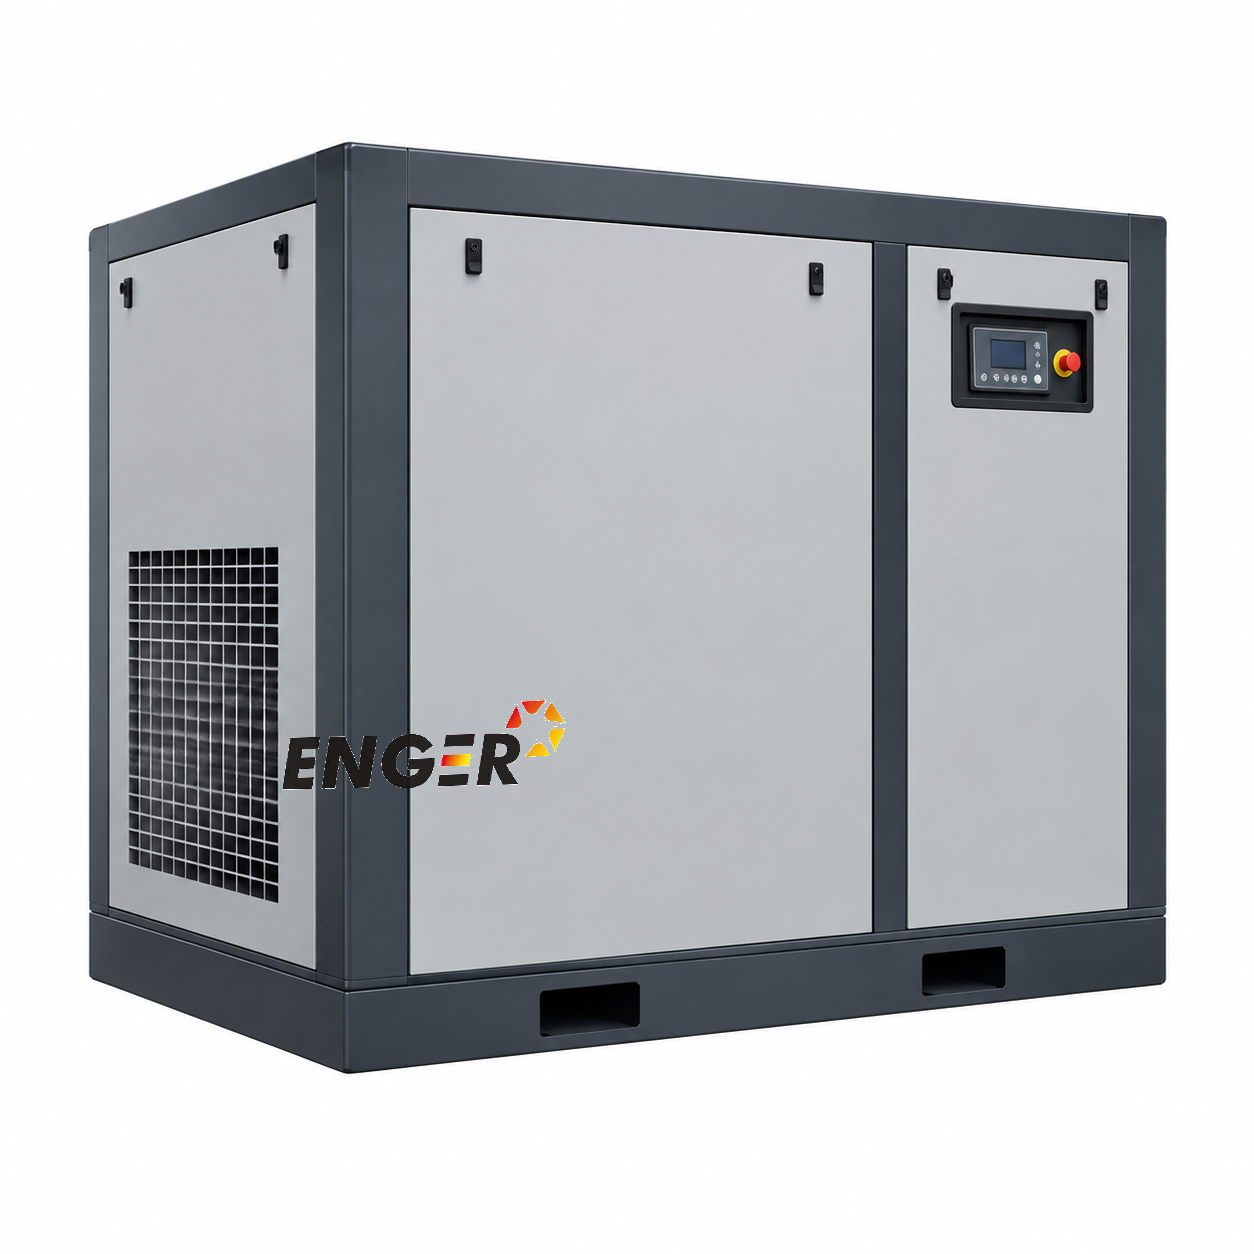
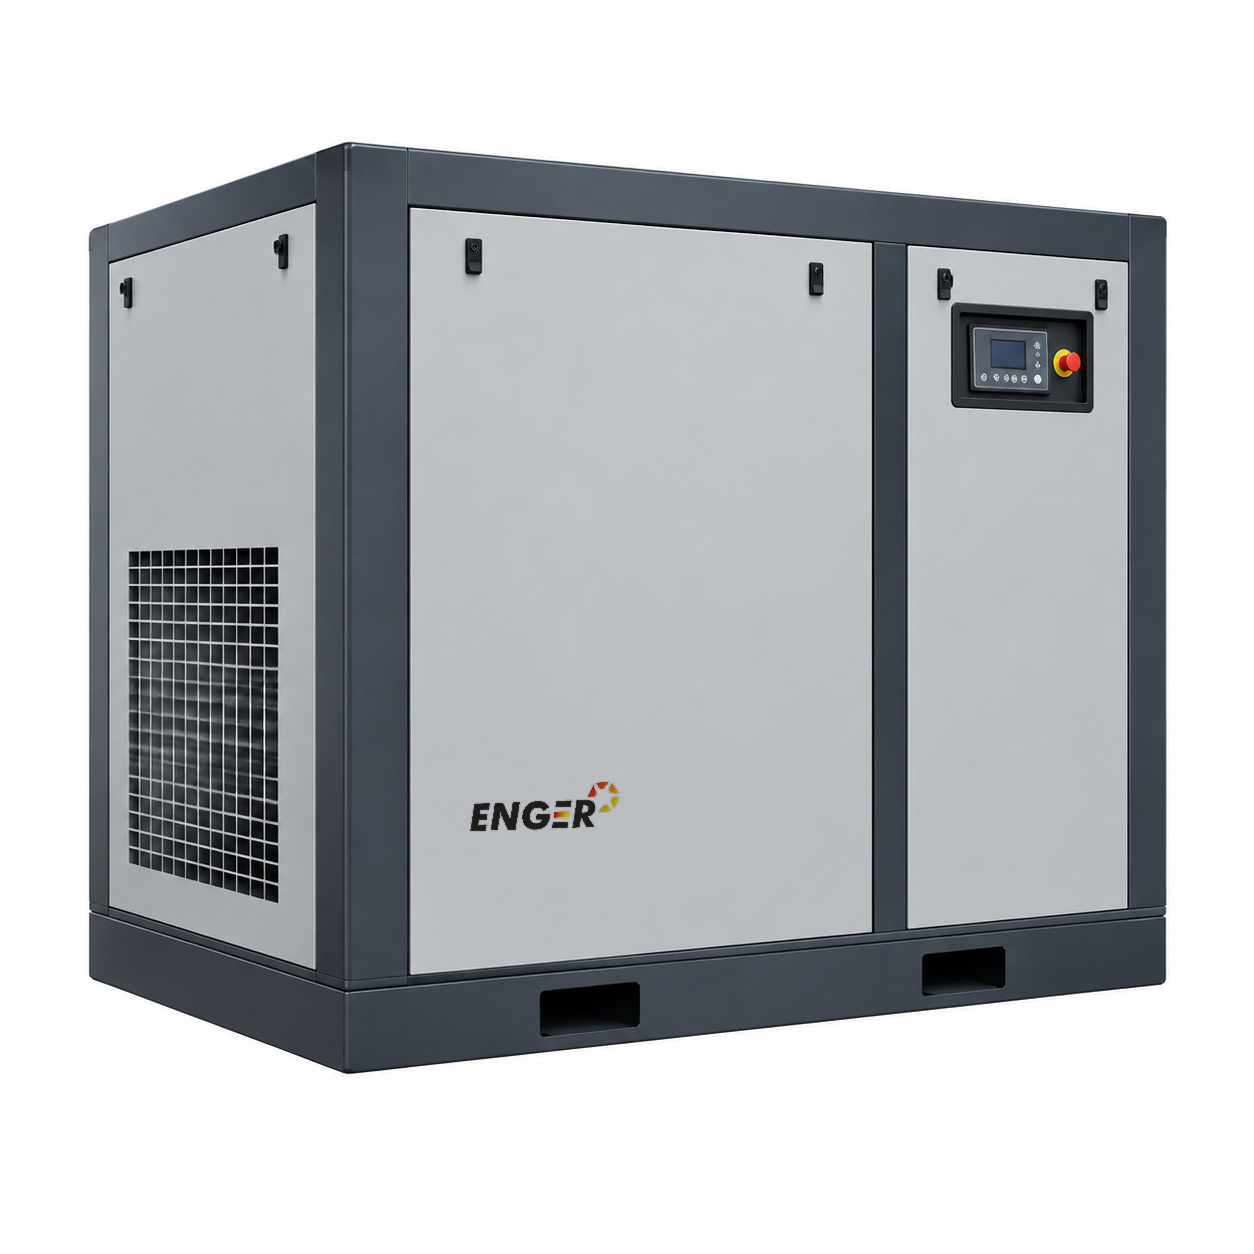
Картинки Enger: графит на всех четырёх, центробежный по настоящим снимкам
Владелец забраковал прошлый заход: логотип «криво прилип», центробежный не
похож на настоящую машину, и вся серия должна читаться в графите, как шесть
уже готовых карточек.

Палитра вынесена в PALITRA и подмешивается в каждый запрос: графит RAL 7024
на раме и каркасе, светло-серый RAL 7035 на панелях, прямой запрет бежевого
и кремового. Спиральный из-за этого перегенерён - был кремовый, выбивался.

Центробежный переописан по снимкам поставок: улитка с фланцевым кольцом,
боковой подвод и верхний отвод крупного сечения, корпус редуктора,
промежуточный охладитель вдоль рамы. Прошлый выглядел насосом на раме.

Логотип больше не кладётся простой альфой - от этого и была наклейка:
краска светилась ровно, пока панель под ней уходила в тень. Тёмный теперь
идёт умножением, светлый осветлением, поэтому подхватывает освещение
поверхности. Углы панелей сняты по зум-сетке с шагом 32 px; кромки полосы
на раме центробежного - замером яркости по колонкам, на глаз промахивался
ниже кромки и логотип свешивался на белый фон.

Claude-Session: https://claude.ai/code/session_01K9bfn6cMfLq8ZJHD6LoULn

Changed region(s): [[0.2177, 0.5598, 0.4976, 0.6842]]

diff --git a/seo-texts/brand-sites/logotip_na_panel.py b/seo-texts/brand-sites/logotip_na_panel.py
@@ -7,7 +7,7 @@
 import os
 import sys
 
-from PIL import Image
+from PIL import Image, ImageChops
 
 # Углы панели сняты по сетке setka.png, которая рисовалась в опорной рамке
 # 1024x1024. Модель отдаёт кадры другого размера (видели 1254), поэтому углы
@@ -17,10 +17,16 @@ OPORA = 1024
 # «светлый» - там, где поверхность тёмная и чёрные буквы на ней пропадают:
 # на передвижном это графитовый капот, на центробежном - рама-основание.
 PANELI = {
-    'nizkogo-davleniya': (((230, 575), (462, 571), (462, 641), (230, 646)), 'тёмный'),
-    'spiralnye':         (((714, 688), (876, 694), (876, 757), (714, 751)), 'тёмный'),
-    'peredvizhnye':      (((490, 355), (611, 366), (611, 408), (490, 398)), 'светлый'),
-    'centrobezhnye':     (((106, 723), (294, 745), (294, 802), (106, 780)), 'светлый'),
+    # Углы сняты по зум-сетке с шагом 32 px, а не на глаз: прошлый заход давал
+    # наклейку именно потому, что логотип лежал плоско, пока панель уходила вбок.
+    'nizkogo-davleniya': (((384, 642), (506, 638), (506, 675), (384, 679)), 'тёмный'),
+    'spiralnye':         (((588, 696), (702, 694), (702, 728), (588, 730)), 'тёмный'),
+    'peredvizhnye':      (((498, 351), (612, 357), (612, 391), (498, 385)), 'светлый'),
+    # На центробежном ровных панелей нет: кладём на стенку рамы-основания.
+    # Кромки полосы сняты замером яркости по колонкам, а не на глаз: первый
+    # заход промахнулся ниже кромки и логотип свесился на белый фон.
+    # Полоса: верх y=900+0,2*(x-180), низ y=948+0,233*(x-180).
+    'centrobezhnye':     (((176, 747), (261, 766), (261, 792), (176, 773)), 'светлый'),
 }
 PLOTNOST = 0.94        # чуть просвечивает, чтобы не выглядело наклейкой
 
@@ -53,16 +59,30 @@ def _koef(uglami, w, h):
     return [M[i][n] for i in range(n)]
 
 
-def polozhit(kadr, logotip, uglami, plotnost=PLOTNOST):
-    holst = Image.new('RGBA', kadr.size, (0, 0, 0, 0))
+def polozhit(kadr, logotip, uglami, plotnost=PLOTNOST, rezhim='умножение'):
+    """Кладём логотип НЕ простой альфой.
+
+    Простая альфа даёт наклейку: краска светится ровно, пока панель под ней
+    уходит в тень. Настоящая печать подхватывает освещение поверхности,
+    поэтому тёмный логотип кладём умножением (тень панели проступает сквозь
+    буквы), светлый - осветлением. Разница видна сразу.
+    """
+    from PIL import ImageFilter
     sloy = logotip.transform(kadr.size, Image.PERSPECTIVE,
                              _koef(uglami, logotip.width, logotip.height),
                              Image.BICUBIC)
-    a = sloy.getchannel('A').point(lambda v: int(v * plotnost))
-    sloy.putalpha(a)
-    holst.alpha_composite(sloy)
-    out = kadr.convert('RGBA')
-    out.alpha_composite(holst)
+    # Мягкий край: после перспективы ступеньки, рендер вокруг гладкий.
+    a = sloy.getchannel('A').filter(ImageFilter.GaussianBlur(0.5))
+    a = a.point(lambda v: int(v * plotnost))
+    osnova = kadr.convert('RGBA')
+    b = osnova.convert('RGB')
+    l = sloy.convert('RGB')
+    if rezhim == 'умножение':
+        smes = ImageChops.multiply(b, l)
+    else:
+        smes = ImageChops.screen(b, l)
+    out = osnova.copy()
+    out.paste(smes, (0, 0), a)
     return out
 
 
@@ -84,8 +104,11 @@ def main():
             raise ValueError('ожидался квадратный кадр, а тут %s' % (kadr.size,))
         k = kadr.width / OPORA
         masshtab = tuple((round(x * k), round(y * k)) for x, y in uglami)
-        polozhit(kadr, logotipy[kakoy], masshtab).save(os.path.join(vyhod, imya + '.png'))
-        print('%-20s логотип %s, масштаб углов x%.3f' % (imya, kakoy, k), flush=True)
+        rezhim = 'умножение' if kakoy == 'тёмный' else 'осветление'
+        polozhit(kadr, logotipy[kakoy], masshtab, rezhim=rezhim).save(
+            os.path.join(vyhod, imya + '.png'))
+        print('%-20s логотип %s (%s), масштаб углов x%.3f'
+              % (imya, kakoy, rezhim, k), flush=True)
 
 
 if __name__ == '__main__':

diff --git a/seo-texts/brand-sites/kartinki_enger.py b/seo-texts/brand-sites/kartinki_enger.py
@@ -20,6 +20,12 @@ MODELI = ('gpt-image-2', 'gpt-image-2.5', 'gpt-image-2.5-flare')
 POPYTOK = 5
 
 # Фон просим белый, а не прозрачный: вырезаем сами - так контролируем край.
+# Палитра задана жёстко: владелец требует, чтобы все карточки серии читались
+# как одна линейка - графит плюс светло-серые панели, как на шести готовых.
+PALITRA = (' Colour palette strictly graphite: dark graphite grey RAL 7024 frame, '
+           'base and structural parts, light warm grey RAL 7035 panels, matte '
+           'finish, no beige, no cream, no white paint, no blue, no green.')
+
 HVOST = (' Studio product photography, three-quarter front view from the left, '
          'even soft lighting, pure flat white background #FFFFFF, no floor, no '
          'shadow on the background, no text, no logos, no watermark, no people, '
@@ -30,18 +36,22 @@ ZADANIYA = {
         'Industrial low-pressure screw air compressor in a rectangular sound-proof '
         'cabinet, light grey panels with dark graphite frame and base skids, '
         'control panel with small display on the upper right of the front panel.'),
+    # Форма снята с настоящих снимков поставок: это турбомашина, а не насос.
     'centrobezhnye': (
-        'Large industrial centrifugal turbo air compressor package, glossy light grey '
-        'casing with dark grey base frame, large round inlet duct on the side, '
-        'bolted gearbox housing, control cabinet attached at the left end.'),
+        'Large industrial centrifugal turbo air compressor package. Massive round '
+        'volute casing with a wide bolted flange ring on its face, a large diameter '
+        'air inlet duct entering from the side and a large discharge duct leaving '
+        'upward, heavy bolted gearbox body behind the volute, intercooler vessel '
+        'along the base, all mounted on a heavy welded base frame, tall control '
+        'cabinet standing at the left end of the frame.'),
     'peredvizhnye': (
         'Portable diesel screw air compressor on a two-wheel road trailer with a '
         'drawbar and support jack, dark graphite metal canopy with side service '
         'doors and ventilation louvres, road lights on the rear.'),
     'spiralnye': (
-        'Compact oil-free scroll air compressor, tall narrow cabinet, off-white and '
-        'beige panels, round pressure gauge and small round indicator lamps on the '
-        'upper front panel, low dark base.'),
+        'Compact oil-free scroll air compressor, tall narrow rectangular cabinet, '
+        'light grey panels with dark graphite frame and low dark base, round '
+        'pressure gauge and small round indicator lamps on the upper front panel.'),
 }
 
 
@@ -71,7 +81,7 @@ def main():
         for n in range(POPYTOK):
             model = MODELI[n % len(MODELI)]
             try:
-                bajty = poprosit(model, zadanie, 300)
+                bajty = poprosit(model, zadanie + PALITRA, 300)
             except urllib.error.HTTPError as e:
                 print('%s: %s HTTP %s' % (imya, model, e.code), flush=True)
             except Exception as e:
